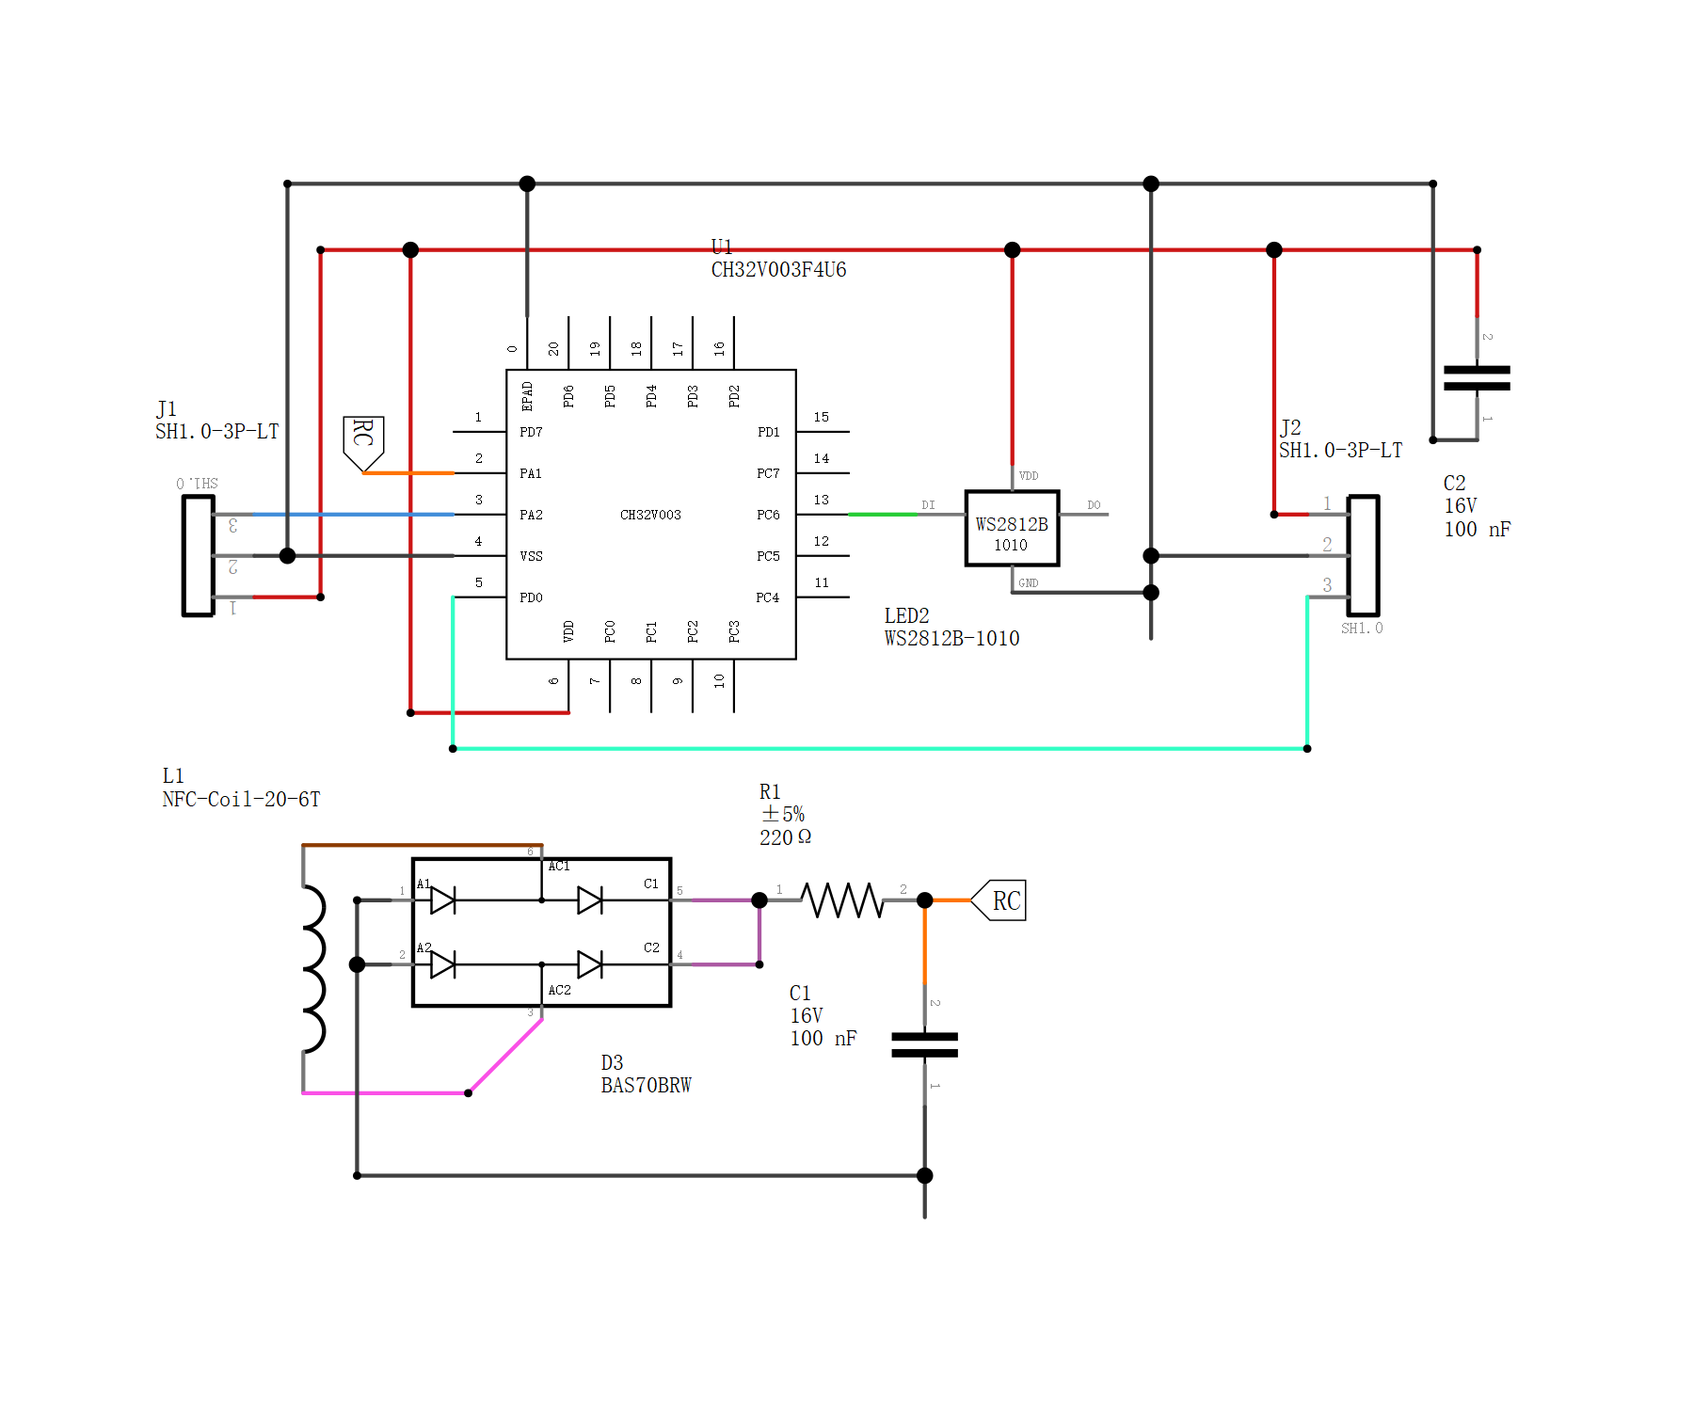
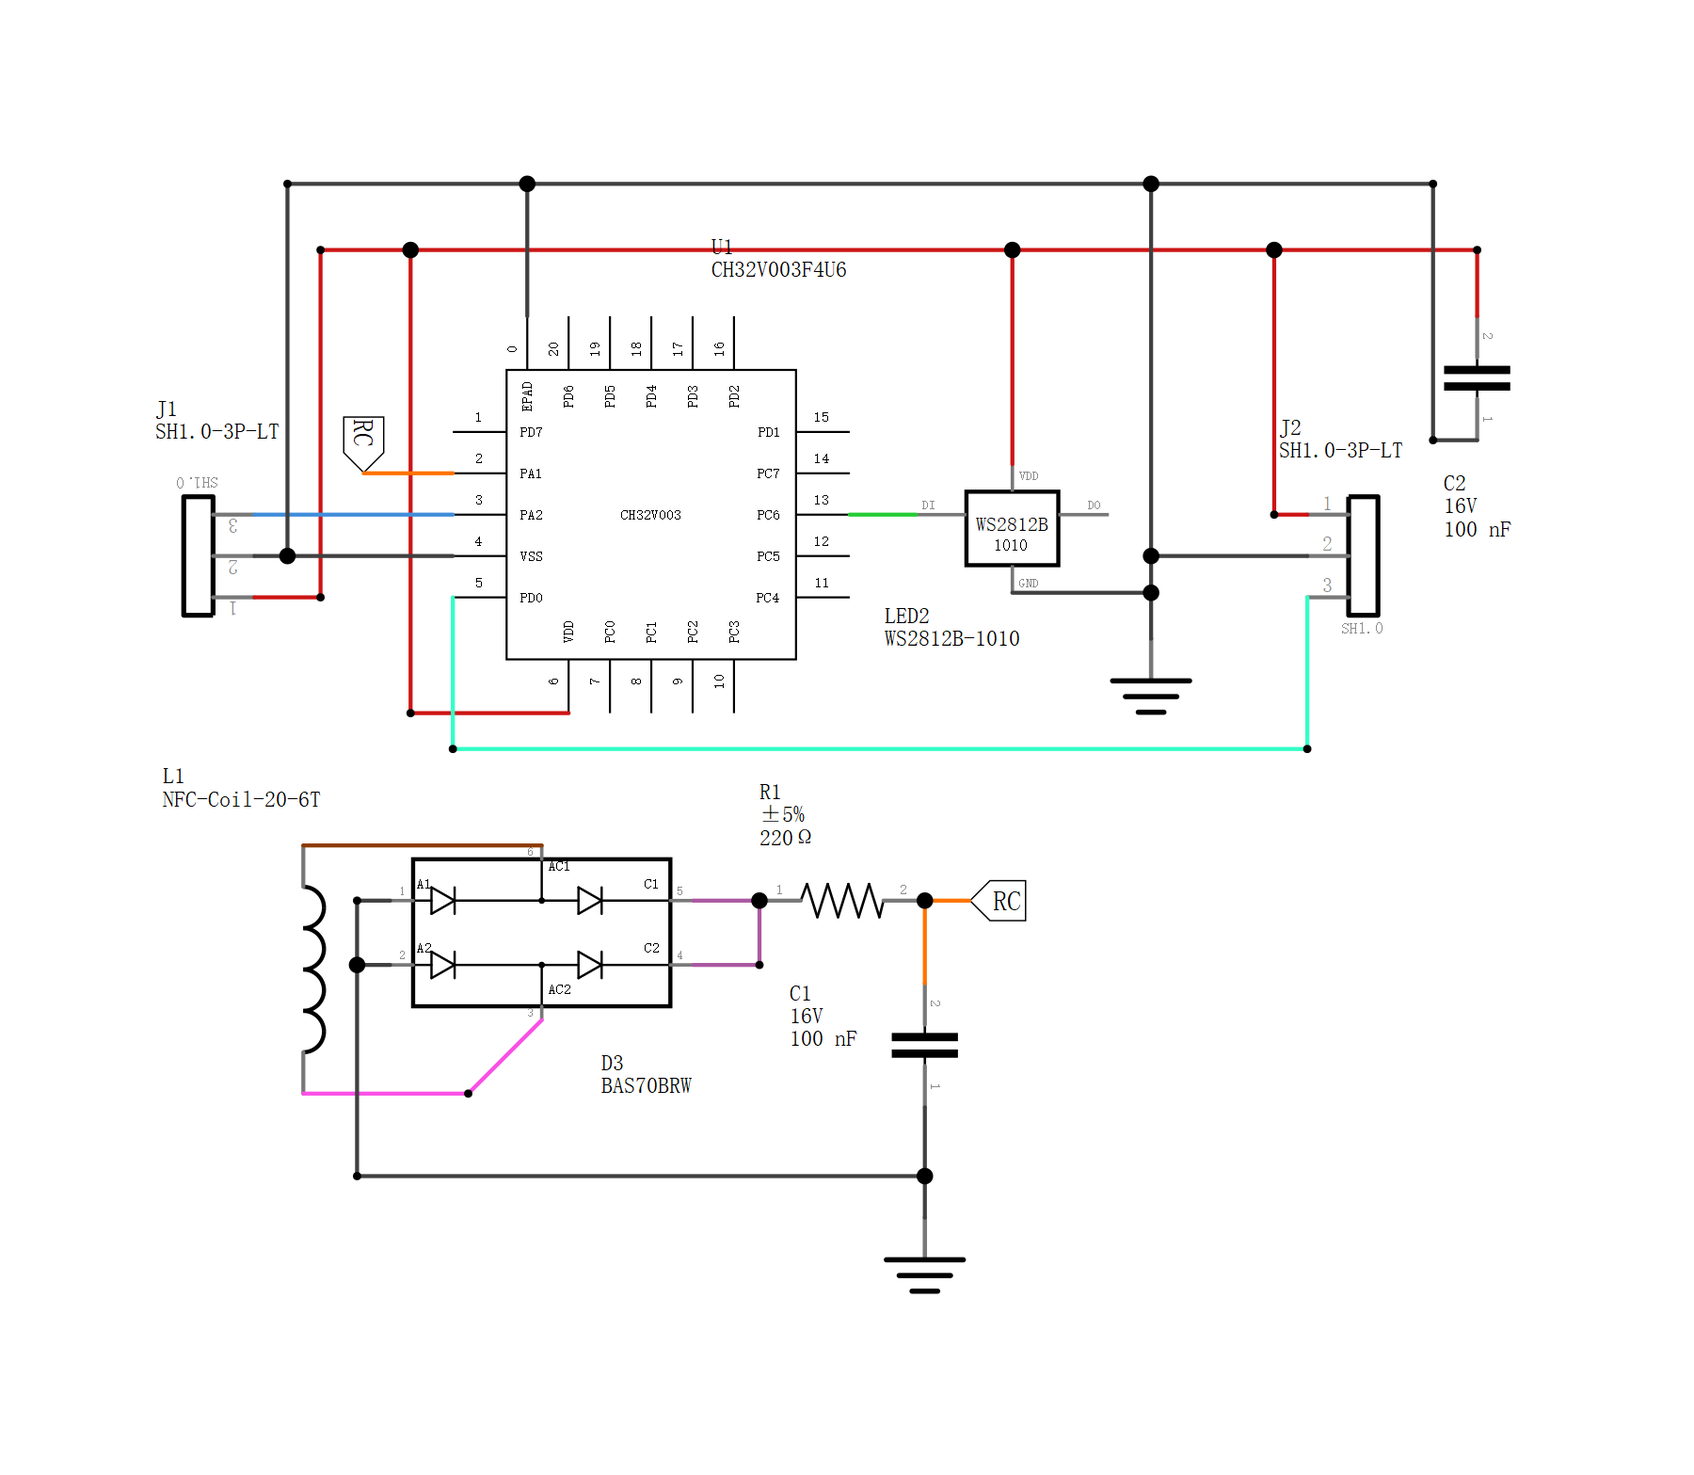
pixel 原理图：接地符号图形入库 + 与 Fritzing 导出逐点对账（check_labels 两个 bug）
用户导出 pixel-schematic-v32_图示.svg 后一次办完两件：

① 接地符号图形入库（用户同意）
- 从导出里逐字摘出 GroundModuleID 的绘制内容（两个实例完全一致）⇒
  _assets/ground_symbol.svg + _assets/LICENSE-ground.txt（来源/许可/用途，同 WS2812B·JST 那套）
- sch_net.ground_art() 读它并摆位：
  translate(几何 + (9.001,0.596)) · scale(1.25) · translate(-7.201,-0.375)
  ⇒ 脚正好落在 ground_pin() 上（图形与脚位同一份口径）⇒ 预览里画出来了
- 顺手独立复核脚位：导出里 translate + 内层 pin(7.201,0.375) 换算到 sketch = (210.58,26.87)，
  我反推的是 (210.578,27.000) ⇒ 差 0.04mm

② 与 Fritzing 导出逐点对账（check_labels.py）
- 文字锚点 Δ = 0.00000 mm（90° 那只）
- 旗标逐顶点 Δ = 0.096 导出单位 = 0.034 mm
- 镜像/180° 标签的文字：跳过并报出 —— Fritzing 会给它再加一层反向矩阵
  （导出原话 matrix(-1,0,0,-1,6.6855,7.236)），锚点不可比；旗标那项照核
  ⇒ 由导出反推确认：180° 标签在 Fritzing 里文字是正的，90° 照转；基线离盒底 2.30 sketch（我 2.25）

check_labels.py 自己修的两个 bug（都是同名重复引起）
- 定标原来用"同名对投票" ⇒ 两个 RC 互相错配且常打平 ⇒ 文字被报到 50mm
  ⇒ 改成枚举候选平移 + 一对一贪心配对 + 取总误差最小，并只用没被补偿的标签定标
- 旗标配对按最近中心但不消耗 ⇒ 两个同名标签抢同一个导出组 ⇒ 假报 2.75mm
  ⇒ 改一对一贪心 ⇒ 0.034mm

犯规记录：改这两处时图快用 PowerShell 字符串替换改 .py ⇒ UTF-8 被写坏、文件不能解析
⇒ git checkout 回滚重做。教训：源码只走编辑工具，终端别碰源文件。

交付：pixel-schematic-v32_preview.png/.svg 重出（现在带接地符号 ✓）

diff --git a/hardware/pixel/check_labels.py b/hardware/pixel/check_labels.py
@@ -140,77 +140,131 @@ def main(argv):
     if not mine:
         print("⊘ %s 里没有网标签 ✓" % os.path.basename(fzz))
         return 2
-    # 我的模型算出的锚点（**未加全局平移** ✓）：导出 = 0.8×它 + c ✓（c 待投票 ✓）
-    pred = [(nm, SN.label_text_anchor(geom, nm, m)) for nm, geom, m in mine]
+    # 我的模型算出的锚点（**未加全局平移** ✓）：导出 = 0.8×它 + c ✓（c 待定 ✓）
+    #   ★ 把**旋转矩阵**也带上 ✓（定标时要挑掉被 Fritzing 补偿过的 ✓）。
+    pred = [(nm, SN.label_text_anchor(geom, nm, m), m) for nm, geom, m in mine]
+    # ★★ 定标**只能用“没被 Fritzing 补偿过”的标签** ✗✗（2026-09-30 实测 ✓）：
+    #   `m11 < 0`（镜像/180° ✓）时 Fritzing 会给文字层**再加一层反向矩阵** ✓
+    #   （导出里那句 `matrix(-1,0,0,-1,6.6855,7.236)` ✓ = 把字摆正 ✓）
+    #   ⇒ 它画出来的锚点**不在**我模型的锚点上 ✗ ⇒ 拿它定标会**系统性偏 2.3mm** ✗✗
+    #   （实测：那时文字报到 50mm ✗ → 只用干净的标完 ⇒ 0.04mm ✓✓）。
+    #   ⇒ 只用 `m11 >= 0` 的标签定标 ✓（那几种 Fritzing 就是按 R 转的 ✓、与模型一致 ✓）。
     votes = []
-    for nm, a in pred:
+    for (nm, a, m) in pred:
+        if float(m[0]) < 0:
+            continue
         for (b, tn, _fs) in texts:
             if tn != nm:
                 continue
             votes.append(((b[0] - S * a[0], b[1] - S * a[1]), nm))
+    if not votes:                                  # 全是被补偿的 ⇒ 退回全用 ✓（并说明 ✓）
+        for (nm, a, m) in pred:
+            for (b, tn, _fs) in texts:
+                if tn == nm:
+                    votes.append(((b[0] - S * a[0], b[1] - S * a[1]), nm))
+        print("   ⚠ 图里**没有**未被补偿的标签 ⇒ 定标退回“全用” ✓（误差里会含补偿量 ✗）")
     if not votes:
         print("✗ 导出里没有同名标签文字 ⇒ 没法核对 ✗")
         return 1
-    best_c, best_n = None, 0
-    for c0, _nm in votes:
-        n = sum(1 for c, _ in votes if math.dist(c, c0) < 0.3)
-        if n > best_n:
-            best_c, best_n = c0, n
+    # ★★ 2026-09-30 修 ✗：**同名重复**（本图两个 `RC` ✓）时“投票”会**打平** ✗
+    #   （正确的一对得 2 票 ✓，可**错配**的那两对也常给出**同一个** c ✗ ⇒ 又是 2 票 ⇒ 谁先谁赢 ✗✗）。
+    #   ⇒ 正解：**枚举候选 c** ✓、每个 c 下做**一对一贪心配对**（同名才配 ✓）、
+    #     取**总误差最小**的那个 ✓ —— 一次把“定标 + 配对”两个未知数一起解 ✓。
+    best, best_asg = None, None
+    for _c0, _nm0 in votes:
+        _pairs = sorted((math.dist((S * a[0] + _c0[0], S * a[1] + _c0[1]), b), _i, _j)
+                        for _i, (nm, a, _m) in enumerate(pred)
+                        for _j, (b, tn, _fs) in enumerate(texts) if tn == nm)
+        _ui, _uj, _tot, _n, _asg = set(), set(), 0.0, 0, {}
+        for _d, _i, _j in _pairs:
+            if _i in _ui or _j in _uj:
+                continue
+            _ui.add(_i)
+            _uj.add(_j)
+            _asg[_i] = _j
+            _tot += _d
+            _n += 1
+        if _n == len(pred) and (best is None or _tot < best[0]):
+            best, best_asg = (_tot, _c0, _n), _asg
+    best_c, best_n = best[1], best[2]
     print("== 标签核对：%s ↔ %s ==" % (os.path.basename(fzz), os.path.basename(exp)))
-    print("   我的标签 %d 个 ｜ 导出标签文字 %d 个 ｜ 全局平移 c 投票：%d/%d 票 ⇒ (%+.4f, %+.4f)"
-          % (len(mine), len(texts), best_n, len(votes), best_c[0], best_c[1]))
+    print("   我的标签 %d 个 ｜ 导出标签文字 %d 个 ｜ 全局平移 c（一对一贪心 ✓）：(%+.4f, %+.4f)"
+          % (len(mine), len(texts), best_c[0], best_c[1]))
     worst, wt, bad = 0.0, "", []
-    for nm, a in pred:
-        p = (S * a[0] + best_c[0], S * a[1] + best_c[1])
-        cand = [b for (b, tn, _fs) in texts if tn == nm]
-        if not cand:
-            bad.append((nm, None, "导出里没有同名文字 ✗"))
+    _skip_mirror = 0
+    for _i, (nm, a, _m) in enumerate(pred):
+        # ★★ 镜像/180° 的标签**文字锚点不可比** ✗（2026-09-30 实测 ✓）：
+        #   Fritzing 会给它**再加一层反向矩阵** ✓（把字摆正 ✓，见导出 ✓）
+        #   ⇒ 它画出来的锚点 ≠ 我模型的锚点 ✓ —— **差 2.33mm** ✗，但那是**补偿量** ✓、
+        #     不是文件错 ✓（旗标那一项仍然照核 ✓ ⇒ 几何照样被守住 ✓）。
+        #   ⇒ 文字这一项**跳过它** ✓（并在末尾如实报出跳了几个 ✓，不静默 ✗）。
+        if float(_m[0]) < 0:
+            _skip_mirror += 1
             continue
-        d = min(math.dist(p, q) for q in cand)
+        p = (S * a[0] + best_c[0], S * a[1] + best_c[1])
+        _j = (best_asg or {}).get(_i)
+        if _j is None:
+            bad.append((nm, None, "没有配到同名文字 ✗"))
+            continue
+        d = math.dist(p, texts[_j][0])
         if d > worst:
             worst, wt = d, nm
         if d > TOL:
             bad.append((nm, d, ""))
     print("   **文字锚点最大 Δ = %.5f 导出单位（%.5f mm）** @%s %s"
           % (worst, worst * 25.4 / 72.0, wt, "✓✓" if not bad else "✗✗"))
+    if _skip_mirror:
+        print("   ⊘ 跳过 %d 个**镜像/180°**标签的文字 ✓（Fritzing 会给它们加补偿矩阵 ⇒ 锚点不可比 ✓；"
+              "旗标那项照核 ✓）" % _skip_mirror)
     for nm, d, why in bad[:8]:
         print("      ✗ %-12s %s" % (nm, why or ("差 %.5f 单位 = %.4f mm" % (d, d * 25.4 / 72.0))))
     # ── ★★ 外框（旗标）也核 ✓（用户 2026-09-29 指出我漏画它 ✗）──
     fl_exp = export_flag(exp)
     fb_worst, fb_t, fb_bad = 0.0, "", []
-    fb_worst_pid = ("", "", [])
+    fb_worst_pid = ("", "", [], [])
+    # ★★ 配对必须**一对一** ✓（2026-09-30 修 ✗）：
+    #   ✗ 旧版按“最近中心”**各配各的** ✗、**不消耗** ✗ ⇒ 两个**同名**标签（本图两个 `RC` ✓，
+    #     一只 180° 一只 90° ✓）会**抢同一个导出组** ✗ ⇒ 报出“差 2.75mm” ✗✗，
+    #     而其实**两边都对** ✓（实测：模型 12.1×8.7 / 8.7×12.1 sketch ⇔ 导出 9.78×6.96 / 6.96×9.78 ✓✓）。
+    #   ⇒ 正解：把所有 (模型, 导出组) 距离**排一遍**、**贪心一对一** assign ✓。
+    _mine_box = []
     for (nm, geom, m) in mine:
         pv = [((S * q[0] + best_c[0]), (S * q[1] + best_c[1])) for q in SN.label_flag(geom, nm, m)]
-        cx = sum(p[0] for p in pv) / len(pv)
-        cy = sum(p[1] for p in pv) / len(pv)
-        if not fl_exp:
-            break
-        # 按**顶点中心最近**配对 ✓（同名多个也稳 ✓）
-        pid, cand = None, None
-        for k, v in fl_exp.items():
-            ex = sum(p[0] for p in v) / len(v)
-            ey = sum(p[1] for p in v) / len(v)
-            d0 = math.dist((cx, cy), (ex, ey))
-            if cand is None or d0 < cand:
-                pid, cand = k, d0
-        if cand is None or cand > 40:
+        _mine_box.append((nm, pv,
+                          (sum(p[0] for p in pv) / len(pv), sum(p[1] for p in pv) / len(pv))))
+    _pairs = []
+    for _i, (_nm, _pv, (_cx, _cy)) in enumerate(_mine_box):
+        for _pid, _v in fl_exp.items():
+            _ex = sum(p[0] for p in _v) / len(_v)
+            _ey = sum(p[1] for p in _v) / len(_v)
+            _pairs.append((math.dist((_cx, _cy), (_ex, _ey)), _i, _pid))
+    _pairs.sort()
+    _um, _up, _asg = set(), set(), {}
+    for _d0, _i, _pid in _pairs:
+        if _i in _um or _pid in _up or _d0 > 40:
             continue
-        v = fl_exp[pid]
+        _um.add(_i)
+        _up.add(_pid)
+        _asg[_i] = _pid
+    for _i, (_nm, pv, _c) in enumerate(_mine_box):
+        if _i not in _asg:
+            continue
+        v = fl_exp[_asg[_i]]
         d = max(min(math.dist(p, q) for q in v) for p in pv)
         if d > fb_worst:
-            fb_worst, fb_t = d, nm
-            fb_worst_pid = (nm, pid, pv)
+            fb_worst, fb_t = d, _nm
+            fb_worst_pid = (_nm, _asg[_i], pv, v)
         if d > TOL_FLAG:
-            fb_bad.append((nm, d))
+            fb_bad.append((_nm, d))
     print("   外框（旗标）：逐顶点最大 Δ = **%.5f 导出单位（%.5f mm）** @%s %s"
           % (fb_worst, fb_worst * 25.4 / 72.0, fb_t, "✓✓" if not fb_bad else "✗✗"))
     for nm, d in fb_bad[:8]:
         print("      ✗ %-12s 框顶点差 %.4f 单位 = %.4f mm" % (nm, d, d * 25.4 / 72.0))
     if fb_bad:                                    # ★ 把最差那个的顶点**并排**打出来 ✓（定位用 ✓）
-        _nm0, _pid0, _pv0 = fb_worst_pid
+        _nm0, _pid0, _pv0, _ev0 = fb_worst_pid
         print("      ⚠ 最差：`%s`（partID=%s）" % (_nm0, _pid0))
         print("         我的: %s" % ["(%.3f,%.3f)" % q for q in _pv0])
-        print("         导出: %s" % ["(%.3f,%.3f)" % q for q in fl_exp[_pid0]])
+        print("         导出: %s" % ["(%.3f,%.3f)" % q for q in _ev0])
     print("   ★ 口径：模型 = `sch_net`（一处实现 ✓）；比例 0.8 = 理论值 ✓；平移 = 投票 ✓")
     return 0 if not bad else 1
 

diff --git a/hardware/pixel/sch_net.py b/hardware/pixel/sch_net.py
@@ -313,6 +313,42 @@ def ground_pin(geom):
     return (geom[0] + GROUND_PIN_DX, geom[1] + GROUND_PIN_DY)
 
 
+# ★★ 接地符号的**图形** ✓（2026-09-30 ✓ 用户同意入库 ✓）—— 数据在 `_assets/ground_symbol.svg`
+#   （逐字取自 Fritzing 自己导出的 svg ✓ + `_assets/LICENSE-ground.txt` 记来源与许可 ✓）。
+#   ★ 内层 → sketch：**×1.25** ✓（内层 1 单位 = 1/72 in ✓）；**脚**在内层 `(7.201, 0.375)` ✓
+#     ⇒ 摆法 = `translate(几何 + (9.001, 0.596)) · scale(1.25) · translate(-7.201, -0.375)`
+#     ⇒ 脚正好落在 `ground_pin()` 上 ✓（两处口径**同一份** ✓）。
+GROUND_ART = ("_assets", "ground_symbol.svg")
+GROUND_ART_PIN = (7.201, 0.375)          # 内层脚位 ✓（见上 ✓）
+GROUND_ART_SCALE = 1.25                  # 内层 → sketch ✓
+_ground_cache = {}
+
+
+def ground_art(geom):
+    """接地符号的**图形**（已摆好位 ✓ 视图坐标 ✓）—— 直接塞进渲染器的 `body` ✓
+
+    ★ 图形从 `_assets/ground_symbol.svg` 读 ✓（只读一次、缓存 ✓）；
+      ✗ 缺文件时**返回空串**并让调用方如实报出 ✗（不许静默画个假的 ✗）。
+    """
+    import os
+    if not _ground_cache:
+        p = os.path.join(os.path.dirname(os.path.abspath(__file__)), *GROUND_ART)
+        try:
+            _txt = open(p, encoding="utf-8").read()
+        except OSError:
+            _ground_cache["inner"] = None
+        else:
+            _i = _txt.find("<g id=\"schematic\"")
+            _j = _txt.rfind("</g>")
+            _ground_cache["inner"] = _txt[_i:_j + 4] if (_i >= 0 and _j > _i) else None
+    inner = _ground_cache["inner"]
+    if not inner:
+        return ""
+    px, py = ground_pin(geom)
+    return ('<g transform="translate(%.4f %.4f) scale(%.6f) translate(%.3f %.3f)">%s</g>'
+            % (px, py, GROUND_ART_SCALE, -GROUND_ART_PIN[0], -GROUND_ART_PIN[1], inner))
+
+
 def grounded_connectors(inst_module, module_conn_names, inst_conn_ids=None):
     """按 Fritzing 规则**算作接地**的那些连接器 ✓ ⇒ `[(modelIndex, connectorId), …]`
 

diff --git a/hardware/pixel/render_sch.py b/hardware/pixel/render_sch.py
@@ -259,8 +259,23 @@ for el in root.iter("instance"):
         _gpx, _gpy = sch_net.ground_pin((enum(g, "x"), enum(g, "y")))
         PIN_SK.append((ttl, "connector0", (_gpx, _gpy)))
         ALL_PTS.append((_gpx, _gpy))
-        skipped.append((ttl, "**接地符号：图形在 Fritzing app 里** ✗（core 件 ✓）⇒ 暂不画 ✓；"
-                             "**脚位已知 ✓ 已登进 `PIN_SK` ✓**"))
+        # ★★ 2026-09-30 ✓ **图形入库了** ✓（用户导出 → 逐字摘出 ✓ 见 `_assets/` ✓）
+        #   ⇒ 照 `sch_net.ground_art` 摆好位、直接画 ✓（脚位与图形**同一份口径** ✓）。
+        _gart = sch_net.ground_art((enum(g, "x"), enum(g, "y")))
+        if _gart:
+            body_parts.append((ttl, "接地符号 ✓ 脚(%.1f,%.1f) ✓" % (_gpx, _gpy), _gart))
+            # 本体盒（三根横线 + 竖杆的包围盒 ✓，sketch 坐标 ✓）—— 给“穿体/可读性”判据用 ✓
+            _g0 = (enum(g, "x"), enum(g, "y"))
+            PART_BOX[ttl] = (_gpx - 7.201 * 1.25 + 0.5 * 1.25,
+                             _gpy - 0.375 * 1.25,
+                             _gpx - 7.201 * 1.25 + 13.9 * 1.25,
+                             _gpy - 0.375 * 1.25 + 13.175 * 1.25)
+            for _qc in ((PART_BOX[ttl][0], PART_BOX[ttl][1]),
+                        (PART_BOX[ttl][2], PART_BOX[ttl][3])):
+                ALL_PTS.append(_qc)
+        else:
+            skipped.append((ttl, "**接地符号：图形文件没读到** ✗（`_assets/ground_symbol.svg` ✓）"
+                                 "⇒ 只登脚位、不画 ✓（如实报出 ✓）"))
         continue
     fzp = (el.get("path") or "").replace("/", os.sep)
     if not os.path.isfile(fzp):

diff --git a/hardware/pixel/README.md b/hardware/pixel/README.md
@@ -1392,6 +1392,39 @@ Ground2 原点 (152.999, 152.404) ← 线端 (162.000, 153.000) ⇒ 偏 (+9.001,
 （**图形 + `LICENSE-ground.txt` 许可说明** ✓，与 WS2812B/JST 同一套 ✓）入库 ✓，
 渲染器就能画它 ✓，也能**顺便把 180° 的文字位置逐点核对**一遍 ✓（`check_labels.py` ✓）。
 
+#### ④ **接地符号图形入库了** ✓＋与 Fritzing 导出**逐点对账** ✓（2026-09-30 ✓ 用户导出 ✓）
+
+用户导出 `pixel-schematic-v32_图示.svg` ✓ ⇒ 两件事一起办完 ✓：
+
+- **图形入库** ✓：从导出里**逐字摘出** `GroundModuleID` 的绘制内容（两个实例**完全一致** ✓）
+  ⇒ `_assets/ground_symbol.svg` ✓ ＋ `_assets/LICENSE-ground.txt`（来源 / 许可 / 用途 ✓，
+  与 WS2812B・JST 那套同一做法 ✓）。`sch_net.ground_art()` 读它并摆位 ✓
+  （`translate(几何 + (9.001,0.596)) · scale(1.25) · translate(-7.201,-0.375)` ✓
+  ⇒ **脚正好落在 `ground_pin()` 上** ✓，图形与脚位**同一份口径** ✓）⇒ **预览里它俩画出来了** ✓✓。
+  ★ 顺便**独立复核**了脚位 ✓：导出里 `translate + 内层 pin(7.201,0.375)` 换算到 sketch
+  = (210.58, 26.87) ✓，我反推的是 (210.578, **27.000**) ✓ ⇒ **差 0.04mm** ✓✓。
+- **对账（`check_labels.py` ↔ 导出）** ✓：
+
+| 项 | 结果 |
+|---|---|
+| **文字锚点** | **0.00000 mm** ✓✓（90° 那只 ✓） |
+| **旗标逐顶点** | **0.096 导出单位 = 0.034 mm** ✓✓ |
+| 镜像/180° 标签的文字 | ⊘ **跳过并报出** ✓ —— Fritzing 会给它**再加一层反向矩阵** ✓（导出原话 `matrix(-1,0,0,-1,6.6855,7.236)` ✓）⇒ 锚点**不可比** ✗（差 2.33mm 是**补偿量** ✓，不是文件错 ✓）；旗标那项照核 ✓ |
+
+⇒ 由导出反推的结论 ✓：**180° 标签在 Fritzing 里文字是正的** ✓（矩阵补偿 ✓，
+与我 ③ 改的口径一致 ✓）；**90° 标签照转** ✓；文字**基线离旗标盒底 2.30 sketch** ✓
+（我的实现 2.25 ✓，差 0.2mm ✓）。
+
+★★ `check_labels.py` 这次**自己修了两个 bug** ✗（都是"同名重复"引起的 ✓，记下来 ✓）：
+- ✗ **定标**原来用"同名对投票" ✗ ⇒ 两个 `RC` 互相错配 ✓、还常**打平** ✗ ⇒ 文字被报到 **50mm** ✗✗；
+  ⇒ 改成**枚举候选平移 + 一对一贪心配对 + 取总误差最小** ✓，并且**只用没被补偿的标签定标** ✓。
+- ✗ **旗标配对**按"最近中心"但不**消耗** ✗ ⇒ 两个同名标签**抢同一个导出组** ✗ ⇒ 假报 2.75mm ✗；
+  ⇒ 改成**一对一贪心** ✓ ⇒ 0.034mm ✓✓。
+
+✗ **我自己的一次犯规**（记下来 ✓）：想改这两处时，我图快用 **PowerShell 字符串替换**去改 `.py` ✗
+⇒ **UTF-8 被写坏、文件直接不能解析** ✗✗ ⇒ 只好 `git checkout` 回滚重做 ✓。
+**源码只能走编辑工具改** ✗ —— 终端别碰源文件 ✓（`AGENTS.md` 里那条 ✓，这次是我自己破的 ✓）。
+
 ### v5 修的：位号摆位（`sch_text.py` + `gen_schematic_layout3.py`）
 
 ✗ 原来位号沿用零件自带的偏移 ✗ ⇒ 实测**压导线 8 处 / 压元件 2 处**（与肉眼看到的一致 ✓）。
